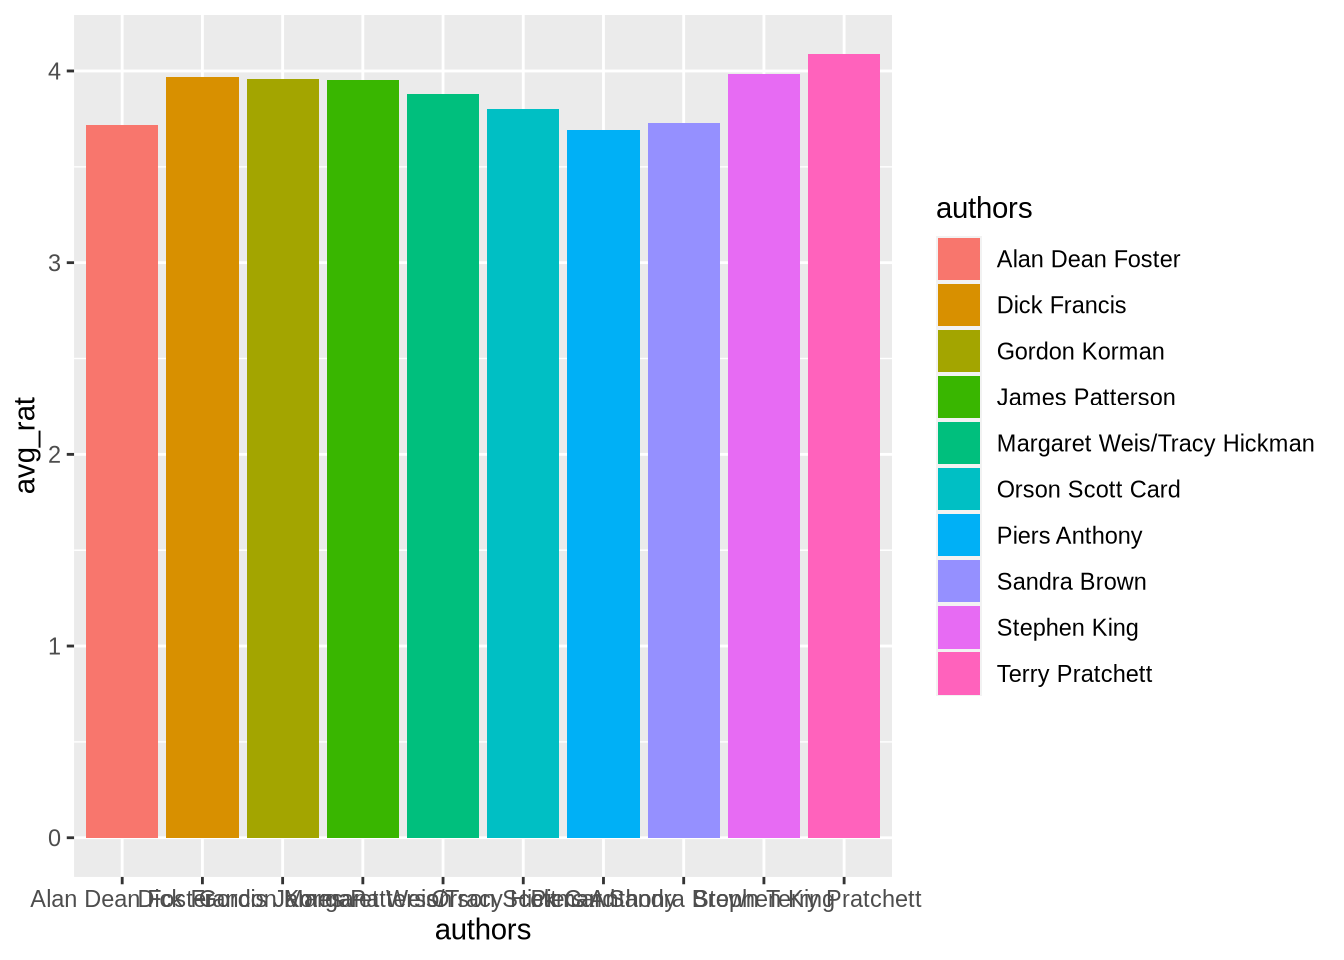
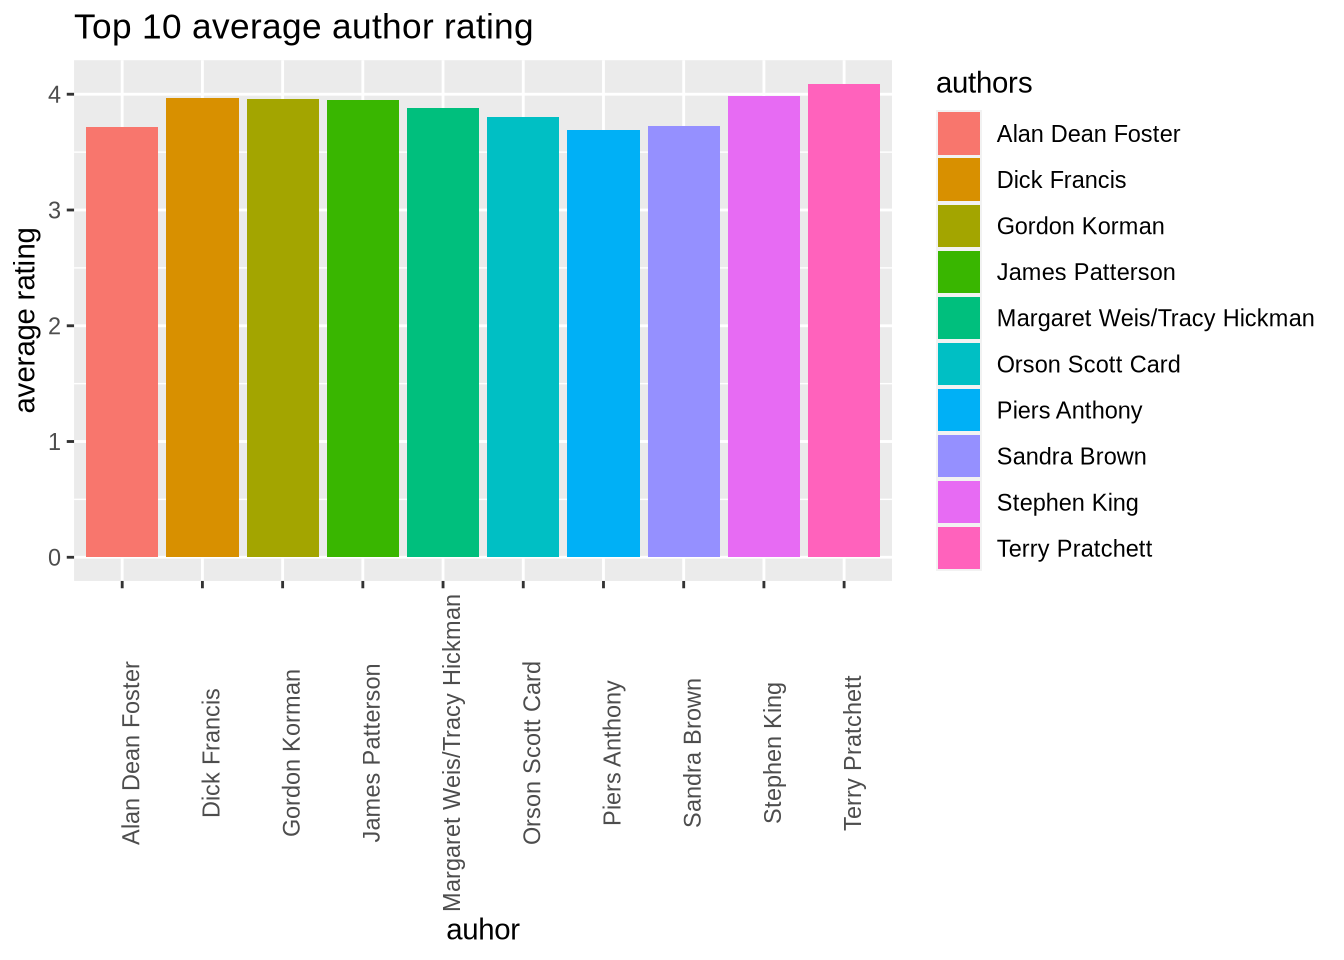
Rotate factor names on the average author rating graphic.

diff --git a/index.html b/index.html
@@ -310,7 +310,11 @@ prolific_writers &lt;- eng_books %&gt;% filter(authors %in% prolific_writer_name
     summarize(avg_rat = sum(rating)/n()) %&gt;%
     ungroup() %&gt;%
     ggplot(aes(x = authors, y = avg_rat, fill = authors)) +
-    geom_bar(stat = &quot;identity&quot;)</code></pre>
+    geom_bar(stat = &quot;identity&quot;) +
+    labs(title = &quot;Top 10 average author rating&quot;,
+          x = &quot;auhor&quot;,
+          y = &quot;average rating&quot;) +
+    theme(axis.text.x = element_text(angle = 90))</code></pre>
 <p><img src="index_files/figure-html/average%20rating-1.png" width="672" /></p>
 <pre class="r"><code>eng_books &lt;- eng_books %&gt;%
     mutate(publication_year = as.numeric(str_sub(publication_date, -4)))</code></pre>
